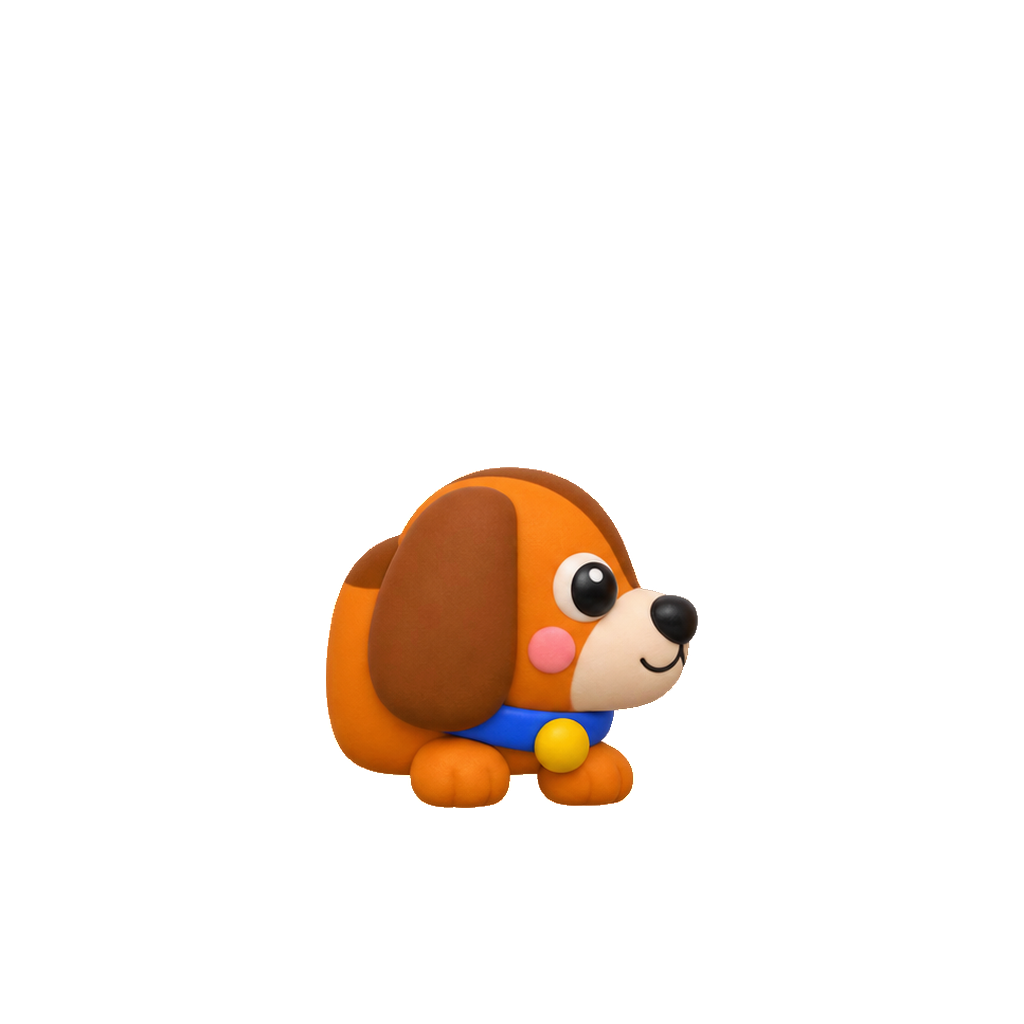
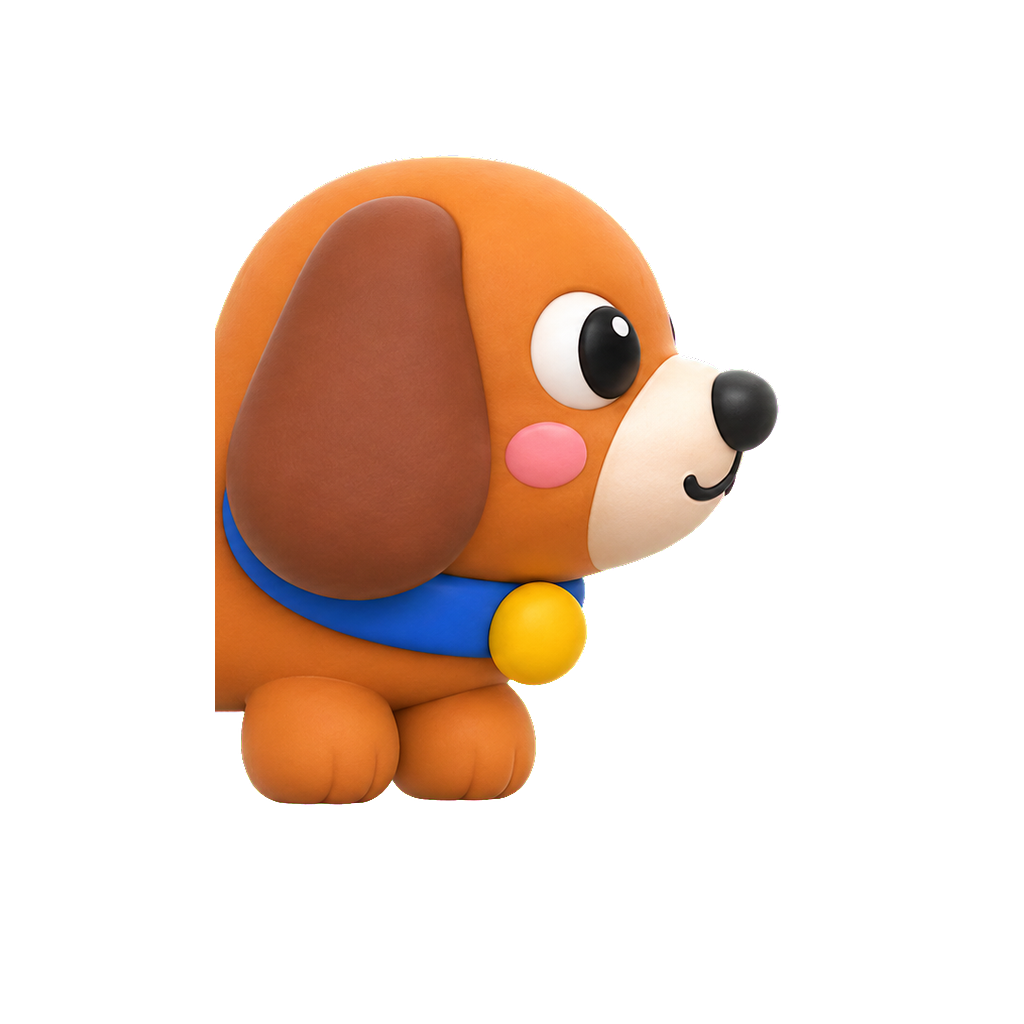
art(experiments): dachshund candidate split from whole-body pictures per game cell (v3, pending approval)
Three whole-body pictures on a flat green ground (assets/dachshund/received-v3/, one per heading, 58° camera) are
keyed, scaled (body 0.8 cell wide; the 180° picture's length matched to the 0° one) and cut into head / body / tail
cards along straight screen-space lines at the cell boundaries (tools/dachshund_full_import.py): 0° head keeps its
whole silhouette from the crown down, 90° head from the back of the ear. Reassembled in place the cards reproduce
the picture exactly; no extensions (extend.json {}), no flattening or extrusion.

turn-shots.mjs: the 3-cell bend capture of diag/turn3.mjs on the normal game entry with ?art=candidate, for review.

Checked: ?demo=sheet 4 directions, two bends (0°->90°, 180°->270°), experiment tests 47/47, tsc. The cut ends show
as flat slices for a few frames while the neighbour card is already round the corner (see REPORT-dachshund-v3-turns).

Changed region(s): [[0.1875, 0.125, 0.7812, 0.8125]]

diff --git a/experiments/2-5d-crocodile/tools/dachshund_full_import.py b/experiments/2-5d-crocodile/tools/dachshund_full_import.py
@@ -1,0 +1,228 @@
+"""Split the whole-body dachshund pictures (one per heading, flat green ground) into head / body / tail cards.
+
+Usage (from the repo root):
+  python3 experiments/2-5d-crocodile/tools/dachshund_full_import.py [--root DIR] [--body-width 0.9] [--scale 1.2]
+
+Input  assets/dachshund/received-v3/dachshund_full_000.png (faces the camera, head at the bottom), _090.png (faces
+       right), _180.png (faces away, head at the top); one dog each on a flat #00FF00 ground. Not modified.
+Output assets/dachshund/candidate/dachshund_<part>_<deg>.png in the SPRITES.md frame (1024×1024, cell 512 px at
+       scale 1, floor centre (512, 640)), candidate/dachshund.sprites.json (standard frame, drawn 0/90/180, 270
+       mirrored), candidate/extend.json = {} and candidate/preview.png (the three headings reassembled at game geometry).
+
+Method: the dog is keyed off the green, scaled so the body is BODY_WIDTH cells wide (0°/180°; the 90° picture so the
+dog from rump to face is 3 cells long), put on the three cells (0°/180°: front feet / hind feet on the near cell's front
+edge; 90°: feet 0.45 cell in front of the floor centre), then cut into cards along straight lines in screen space:
+  0°    head = rows from the crown down (the head is drawn over the body, so its whole silhouette stays with it);
+        body = rows between the tail/body floor boundary and the crown; tail = rows above that boundary.
+  180°  cuts at the two floor boundaries (tail nearest, head farthest).
+  90°   head = columns from the back of the ear to the muzzle; body = columns back to the tail/body floor boundary;
+        tail = the rest (rump, hind legs, curl).
+Reassembled in place the three cards reproduce the picture exactly; in a turn each cut end sits behind the
+neighbouring card that has moved to the corner (SPRITES.md draw order, placement C).
+"""
+import argparse
+import json
+import math
+import os
+
+import numpy as np
+from PIL import Image
+from scipy import ndimage
+
+SIZE, CELL, ANCHOR = 1024, 512, (512, 640)
+SIN58 = math.sin(math.radians(58))
+HERE = os.path.dirname(os.path.abspath(__file__))
+FEET_FORWARD = 0.45  # 90°: feet this many cells in front of the floor centre
+NOSE_OVER = 0.12  # 90°: how far the nose may stick out past the head cell's front edge, in cells
+
+
+def key_green(rgb):
+    """RGBA float (alpha 0..1): alpha from how far a pixel is from the pure green ground, colour un-blended."""
+    rgb = rgb.astype(float)
+    g_excess = rgb[:, :, 1] - np.maximum(rgb[:, :, 0], rgb[:, :, 2])
+    alpha = np.clip(1 - (g_excess - 20) / 140, 0, 1)
+    core = ndimage.binary_fill_holes(alpha > 0.98)
+    alpha = np.where(core, 1.0, alpha)
+    alpha *= ndimage.binary_dilation(core, iterations=3)
+    green = np.array([0.0, 255.0, 0.0])
+    k = np.maximum(alpha, 1e-3)[:, :, None]
+    colour = np.where(core[:, :, None], rgb, np.clip((rgb - (1 - k) * green) / k, 0, 255))
+    return np.dstack([colour, alpha])
+
+
+def resize(img, s):
+    return resize_xy(img, s, s)
+
+
+def resize_xy(img, sx, sy):
+    pre = img.copy()
+    pre[:, :, :3] *= pre[:, :, 3:4]
+    pre[:, :, 3] *= 255
+    im = Image.fromarray(pre.round().astype(np.uint8)).resize((round(img.shape[1] * sx), round(img.shape[0] * sy)), Image.LANCZOS)
+    o = np.array(im).astype(float)
+    a = o[:, :, 3] / 255
+    rgb = np.clip(o[:, :, :3] / np.maximum(a, 1e-3)[:, :, None], 0, 255)
+    return np.dstack([rgb, a])
+
+
+def to8(img):
+    out = img.copy()
+    out[:, :, 3] *= 255
+    return out.round().astype(np.uint8)
+
+
+def window(img, cx, cy, rows=None, cols=None):
+    """1024 frame with picture point (cx, cy) at the anchor; only rows / cols in the given half-open ranges kept."""
+    frame = np.zeros((SIZE, SIZE, 4), float)
+    x0, y0 = int(round(ANCHOR[0] - cx)), int(round(ANCHOR[1] - cy))
+    h, w = img.shape[:2]
+    keep = np.ones((h, w), bool)
+    if rows is not None:
+        keep[:max(0, rows[0])] = False
+        keep[max(0, rows[1]):] = False
+    if cols is not None:
+        keep[:, :max(0, cols[0])] = False
+        keep[:, max(0, cols[1]):] = False
+    src = np.where(keep[:, :, None], img, 0)
+    sy0, sx0 = max(0, -y0), max(0, -x0)
+    sy1, sx1 = min(h, SIZE - y0), min(w, SIZE - x0)
+    if sy1 > sy0 and sx1 > sx0:
+        frame[y0 + sy0:y0 + sy1, x0 + sx0:x0 + sx1] = src[sy0:sy1, sx0:sx1]
+    return frame
+
+
+def main():
+    ap = argparse.ArgumentParser()
+    ap.add_argument('--root', default=os.path.join(HERE, '..', 'assets', 'dachshund'))
+    ap.add_argument('--body-width', type=float, default=0.8, help='body width in cells; 0.8 puts the 3-cell dog on its three cells')
+    ap.add_argument('--scale', type=float, default=1.2)
+    args = ap.parse_args()
+    root = args.root
+    cell = CELL / args.scale
+    depth = cell * SIN58
+    out_dir = os.path.join(root, 'candidate')
+    os.makedirs(out_dir, exist_ok=True)
+    src = {deg: key_green(np.array(Image.open(os.path.join(root, 'received-v3', f'dachshund_full_{deg:03d}.png')).convert('RGB'))) for deg in (0, 90, 180)}
+    pics = {}
+    report = []
+
+    # ---- 0° and 180°: body width -> BODY_WIDTH cells; the near cell's feet on its front edge
+    for deg in (0, 180):
+        img = src[deg]
+        f = img[:, :, 3] > 0.5
+        widths = f.sum(1)
+        ys = np.where(f.any(1))[0]
+        mid = ys[0] + (ys[-1] - ys[0]) // 2
+        body_w = np.median(widths[mid - 150:mid + 150])
+        sx = args.body_width * cell / body_w
+        if deg == 0:
+            img = resize(img, sx)
+            dog_height = (ys[-1] - ys[0]) * sx
+        else:
+            # the 180° picture is drawn longer for its width than the 0° one: same body width, same overall length
+            sy = dog_height / (ys[-1] - ys[0])
+            img = resize(img, sx) if abs(sy / sx - 1) < 0.03 else resize_xy(img, sx, sy)
+            report.append(f'180°: scaled x {sx:.3f}, y {sy:.3f} (height matched to the 0° picture)')
+        f = img[:, :, 3] > 0.5
+        widths = f.sum(1)
+        ys = np.where(f.any(1))[0]
+        mid = ys[0] + (ys[-1] - ys[0]) // 2
+        xs = np.where(f[mid])[0]
+        cx = (xs[0] + xs[-1]) / 2  # body centre line
+        near_cy = ys[-1] - depth / 2  # near cell's floor centre: feet on its front edge
+        cells = [near_cy, near_cy - depth, near_cy - 2 * depth]  # near -> far
+        if deg == 0:
+            # head nearest. Crown: first row (from the top) in the lower part where the outline is wider than the body (ears)
+            lower = np.arange(len(widths)) > mid
+            crown = np.where(lower & (widths > 1.15 * args.body_width * cell))[0][0]
+            b_tail = cells[1] - depth / 2  # floor boundary between body (cell 1) and tail (cell 2)
+            pics['head_000'] = window(img, cx, cells[0], rows=(crown, len(widths)))
+            pics['body_000'] = window(img, cx, cells[1], rows=(int(b_tail), crown))
+            pics['tail_000'] = window(img, cx, cells[2], rows=(0, int(b_tail)))
+            report.append(f'0°: dog {ys[-1] - ys[0]} px tall = {(ys[-1] - ys[0]) / depth:.2f} cell depths (3 cells + body height + curl); crown row {crown}, far end over the tail cell\'s back edge by {(cells[2] - depth / 2 - ys[0]) / depth:.2f} cells')
+        else:
+            b1 = cells[0] - depth / 2  # tail (near) / body
+            b2 = cells[1] - depth / 2  # body / head (far)
+            pics['tail_180'] = window(img, cx, cells[0], rows=(int(b1), len(widths)))
+            pics['body_180'] = window(img, cx, cells[1], rows=(int(b2), int(b1)))
+            pics['head_180'] = window(img, cx, cells[2], rows=(0, int(b2)))
+            report.append(f'180°: dog {ys[-1] - ys[0]} px tall = {(ys[-1] - ys[0]) / depth:.2f} cell depths; head end over the head cell\'s back edge by {(cells[2] - depth / 2 - ys[0]) / depth:.2f} cells')
+
+    # ---- 90°: rump (without the curl) to the nose = 3 cells + NOSE_OVER
+    img = src[90]
+    f = img[:, :, 3] > 0.5
+    ys = np.where(f.any(1))[0]
+    y_mid = ys[0] + (ys[-1] - ys[0]) * 0.6  # below the curl, above the legs
+    xs_mid = np.where(f[int(y_mid)])[0]
+    rump, nose = xs_mid[0], np.where(f.any(0))[0][-1]
+    img = resize(img, (3 + NOSE_OVER) * cell / (nose - rump))
+    f = img[:, :, 3] > 0.5
+    ys = np.where(f.any(1))[0]
+    y_mid = int(ys[0] + (ys[-1] - ys[0]) * 0.6)
+    rump = np.where(f[y_mid])[0][0]
+    heights = f.sum(0)
+    body_h = np.median(heights[rump + int(0.8 * cell):rump + int(1.8 * cell)])
+    # back of the ear: first column (from the rump) in the front half that is clearly taller than the body
+    front = np.arange(len(heights)) > rump + 1.5 * cell
+    ear = np.where(front & (heights > 1.12 * body_h))[0][0]
+    tail_cx = rump + cell / 2
+    cells = [tail_cx, tail_cx + cell, tail_cx + 2 * cell]  # tail, body, head
+    cy = ys[-1] - FEET_FORWARD * depth
+    b_tb = cells[0] + cell / 2
+    pics['tail_090'] = window(img, cells[0], cy, cols=(0, int(b_tb)))
+    pics['body_090'] = window(img, cells[1], cy, cols=(int(b_tb), ear))
+    pics['head_090'] = window(img, cells[2], cy, cols=(ear, img.shape[1]))
+    report.append(f'90°: body height {body_h / cell:.2f} cell, ear back at {(ear - (cells[2] - cell / 2)) / cell:+.2f} cells from the head cell\'s back edge, nose over the front edge by {(np.where(f.any(0))[0][-1] - (cells[2] + cell / 2)) / cell:.2f} cells')
+
+    for key, frame in pics.items():
+        f = frame[:, :, 3] > 0.5
+        ys, xs = np.where(f.any(1))[0], np.where(f.any(0))[0]
+        Image.fromarray(to8(frame)).save(os.path.join(out_dir, f'dachshund_{key}.png'))
+        print(f'dachshund_{key}.png: x{xs[0]}-{xs[-1]} y{ys[0]}-{ys[-1]}')
+    for line in report:
+        print(line)
+
+    manifest = {
+        'species': 'dachshund',
+        'note': 'candidate: whole-body pictures (received-v3, one per heading, 58° camera) split per cell by tools/dachshund_full_import.py; 270 mirrors 90, diagonals use the nearest',
+        'frame': {'size': SIZE, 'cellPx': CELL, 'anchor': list(ANCHOR)},
+        'scale': args.scale,
+        'tuck': 0,
+        'parts': {part: {'drawn': {str(d): f'dachshund_{part}_{d:03d}.png' for d in (0, 90, 180)}} for part in ('head', 'body', 'tail')},
+    }
+    with open(os.path.join(out_dir, 'dachshund.sprites.json'), 'w') as fh:
+        json.dump(manifest, fh, indent=2)
+        fh.write('\n')
+    with open(os.path.join(out_dir, 'extend.json'), 'w') as fh:
+        fh.write('{}\n')
+
+    # preview: reassembled at game geometry, far cards first (90°: head, body, tail as the game creates them)
+    views = {
+        '000': [('tail_000', 0, -2 * depth), ('body_000', 0, -depth), ('head_000', 0, 0)],
+        '180': [('head_180', 0, -2 * depth), ('body_180', 0, -depth), ('tail_180', 0, 0)],
+        '090': [('head_090', cell, 0), ('body_090', 0, 0), ('tail_090', -cell, 0)],
+    }
+    tiles = []
+    for order in views.values():
+        canvas = np.zeros((SIZE + 2 * int(2 * depth) + 100, SIZE + 2 * int(cell) + 100, 4), float)
+        for key, dx, dy in order:
+            img = pics[key]
+            al = img[:, :, 3:4]
+            x0, y0 = int(canvas.shape[1] / 2 - SIZE / 2 + dx), int(canvas.shape[0] / 2 - SIZE / 2 + dy)
+            sl = canvas[y0:y0 + SIZE, x0:x0 + SIZE]
+            sl[:, :, :3] = img[:, :, :3] * al + sl[:, :, :3] * (1 - al)
+            sl[:, :, 3:4] = np.maximum(sl[:, :, 3:4], al)
+        ys, xs = np.where(canvas[:, :, 3] > 0.05)
+        tiles.append(Image.fromarray(to8(canvas)).crop((xs.min() - 20, ys.min() - 20, xs.max() + 20, ys.max() + 20)))
+    h = max(t.height for t in tiles)
+    sheet = Image.new('RGBA', (sum(t.width for t in tiles) + 40 * (len(tiles) + 1), h + 40), (90, 140, 90, 255))
+    x = 40
+    for t in tiles:
+        sheet.alpha_composite(t, (x, 20 + (h - t.height) // 2))
+        x += t.width + 40
+    sheet.save(os.path.join(out_dir, 'preview.png'))
+    print('preview.png written')
+
+
+if __name__ == '__main__':
+    main()

diff --git a/experiments/2-5d-crocodile/assets/dachshund/candidate/REJECTED.md b/experiments/2-5d-crocodile/assets/dachshund/candidate/REJECTED.md
@@ -1,11 +1,11 @@
-# 불합격 실험본 (2026-11-02) — 기본 에셋으로 승격 금지
+# 이 폴더의 이력
 
-이 폴더의 `dachshund_*_{000,090,180}.png`, `dachshund.sprites.json`, `preview.png`는 `received-v2/` 부품 시트를
-`tools/dachshund_import.py`로 잘라 끝단을 평면화·압출한 실험본입니다. 사용자 판정: 연결부가 반복적으로 끊기고
-몸통이 직사각형처럼 보여 **불합격**.
+- **v2 (불합격, 2026-11-02)** — 부품 시트 4장(`received-v2/`)을 `tools/dachshund_import.py`로 잘라 끝단을 평면화·압출한 실험본.
+  연결부가 반복적으로 끊기고 몸통이 직사각형으로 보여 불합격. 파일은 커밋 `9ecfba0`에만 남아 있고 이 폴더에는 없음.
+  원인: 부품이 모두 양끝이 닫힌 독립 블록(둥근 캡슐·식빵, 블록별 둥근 등 무늬)이고 시트 간 카메라 고도가 달랐음.
+- **v3 (후보, 사용자 승인 대기)** — 통짜 3장(`received-v3/dachshund_full_{000,090,180}.png`, 녹색 단색 배경)을
+  `tools/dachshund_full_import.py`로 실제 게임 셀 투영 기준(칸 폭 512/1.2 px, 깊이 ×sin58°)에서 잘라 만든 현재 파일들.
+  정지 상태에서는 세 카드가 원본을 픽셀 단위로 그대로 재구성함(`preview.png`). 회전 중에는 잘린 끝(평면 절단면)이
+  이웃 카드가 코너로 옮겨 간 몇 프레임 동안 노출됨.
 
-원인: 부품 시트 12장이 모두 양끝이 닫힌 독립 블록(둥근 캡슐·식빵, 블록별 둥근 등 무늬 패치)이고, 0°/180° 시트와
-측면 시트의 카메라 고도가 다릅니다. 렌더러(`spriteCards.ts`) 쪽 원인은 없음.
-
-다음 제작: 같은 닥스훈트 원본에서 카메라 고도 58° 고정, 0°·90°·180° 통짜 이미지를 받아 실제 게임 셀 투영 기준으로
-head/body/tail을 분할합니다. `?art=candidate`로만 표시되며 승인된 다른 동물(병아리 등)과 무관합니다.
+`?art=candidate`로만 표시되며 기본 에셋 승격 전까지 승인된 다른 동물과 무관합니다.
